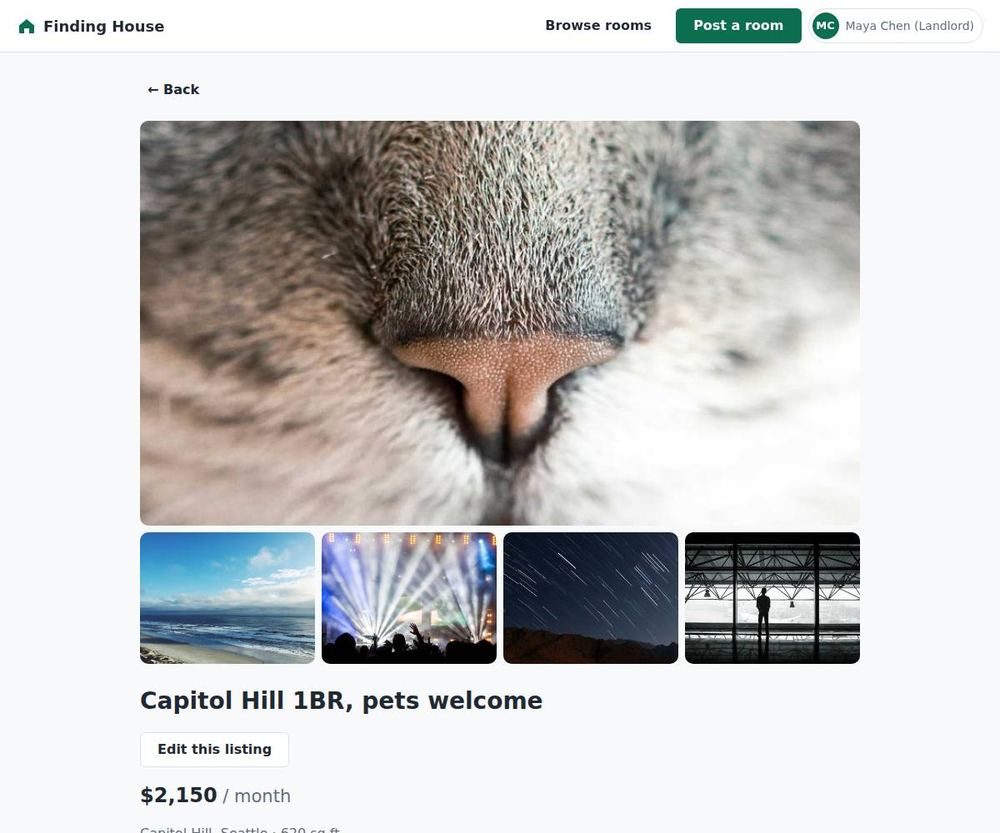
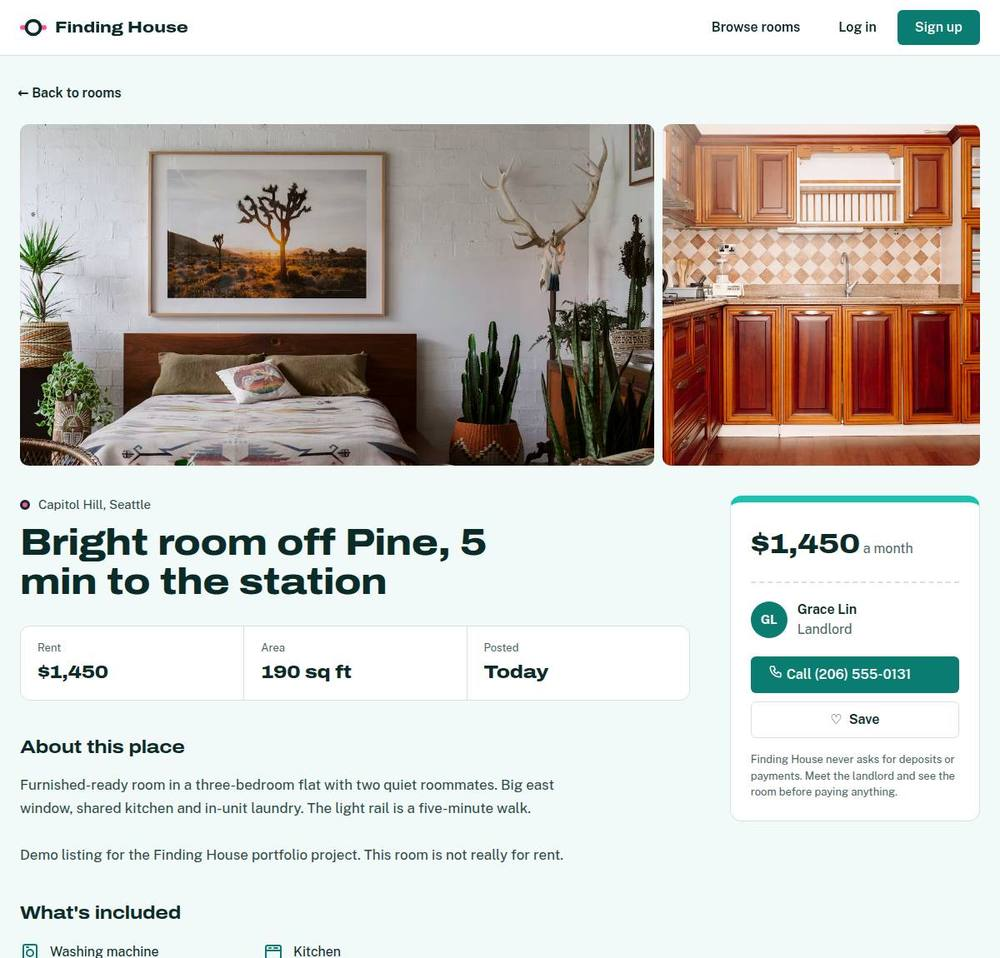
docs: README for the current product; Sprint 5 report
The README now describes the redesigned app and AI search, with fresh
screenshots from the live site and the smoke runs, updated test counts,
an AI box in the architecture diagram, and how to try AI search locally
with a key or with the fake provider. The Sprint 5 report records that AI
search is code complete and tested but off live until a key is set.

Claude-Session: https://claude.ai/code/session_017LPXMwfjLYUz5mja5F2pUE

diff --git a/README.md b/README.md
@@ -6,30 +6,40 @@ Rooms and studios for rent in Seattle: landlords post, tenants browse and filter
 
 > The API runs on a free instance that sleeps after 15 idle minutes, so the first request can take about a minute. Current progress: [docs/STATUS.md](docs/STATUS.md).
 
-| Browse with filters | Listing page |
+| Home: rooms along the 1 Line | Browse with filters |
 | --- | --- |
-| ![Browse page with filters](docs/images/browse.jpg) | ![Listing page with photos](docs/images/listing-detail.jpg) |
-| **Home: newest rooms** | **Landlord: my listings** |
-| ![Home page with the newest rooms](docs/images/home.jpg) | ![My listings with edit, hide, and delete](docs/images/my-listings.jpg) |
+| ![Home page with the 1 Line strip and newest rooms](docs/images/home.jpg) | ![Browse page with filters and ticket cards](docs/images/browse.jpg) |
+| **Listing page** | **AI search: words become filters** |
+| ![Listing page with photos, amenities and contact card](docs/images/listing-detail.jpg) | ![Browse opened by AI search with removable filter chips](docs/images/ai-search.jpg) |
+| **Landlord: my listings** | **Landlord: post a room with a live preview** |
+| ![My listings with counts and Edit, Hide, Delete](docs/images/my-listings.jpg) | ![Post a room form with a live ticket preview](docs/images/post-form.jpg) |
 
-<p align="center"><img src="docs/images/browse-phone.jpg" alt="Browse page on a phone" width="260"></p>
+<p align="center">
+  <img src="docs/images/home-phone.jpg" alt="Home page on a phone" width="240">
+  &nbsp;
+  <img src="docs/images/ai-search-phone.jpg" alt="AI search result on a phone" width="240">
+</p>
 
-_Screenshots are taken automatically by the CI smoke test with fictional sample data._
+_Screenshots are taken automatically by CI: the live site with its fictional demo rooms, and the AI search against a fake AI provider. Demo photos are from Unsplash ([credits](docs/DEMO-CONTENT.md#photo-credits))._
 
 ## What it does
 
 **Working now**
 
-- **Accounts:** sign up as a tenant or landlord, log in, stay logged in for the tab (JWT, 2-hour tokens).
-- **Landlords:** post, edit, hide/unhide, and delete rooms with up to 5 photo links; prices in dollars and cents, areas in square feet.
-- **Everyone:** browse active rooms with filters for neighborhood, rent range, minimum area, and required amenities; three sort orders; pages of 12; the filters live in the URL so a search can be shared.
-- **Listing page:** photos, details, and the landlord's name and phone; hidden listings are visible only to their owner.
-- **Tenants:** save rooms with one click and find them under Saved rooms; a room the landlord hides drops out of the list.
-- Works on phones: menu, folding filter panel, number boxes that format as you type.
+- **Accounts:** sign up as a tenant or landlord, log in, stay logged in for the tab (JWT, 2-hour tokens). What each role can do is enforced by the API, not just hidden in the UI.
+- **Landlords:** post, edit, hide/unhide, and delete rooms with up to 5 photo links, with a live preview while typing; My listings shows how many rooms are shown and hidden.
+- **Everyone:** browse with filters for neighborhood, rent range, minimum area, and amenities; a 1 Line strip with real room counts per stop; three sort orders; the filters live in the URL so a search can be shared; every filter in use is a chip you can remove.
+- **Listing page:** photo grid, amenities, the nearest 1 Line stations, and a contact card with the landlord's phone (a call bar on phones); hidden listings are visible only to their owner.
+- **Tenants:** save rooms with the heart and find them under Saved rooms.
+- **Feels finished:** a designed look ("along the line"), phone layouts checked at 375 px on every push, toasts, empty states, a progress line while the server answers, and a note when the free server is waking up.
+
+**AI search (built, switched on per deployment)**
+
+Type *"quiet room in Ballard under $1,500 with laundry"* and an LLM turns it into the same filters you could set by hand. The model's reply must follow a strict JSON schema whose neighborhoods and amenities are the only values the market knows; the server then checks every value again with the manual filters' rules, drops what does not fit with a note, and the browse page shows the result as chips you can remove. Only the sentence is sent, never logged. If the AI is off, slow, busy or confused, the page says so and the manual filters keep working. Limits keep it inside the provider's free tier. On the live site it turns on when an API key is configured; until then the box is hidden.
 
 **Planned**
 
-- **AI search** (Sprint 4): type *"studio under $1,800 in Capitol Hill, pets allowed"*; an LLM turns it into the same filters, which the server validates like manual ones, with a fallback to manual filters if the AI is slow or unsure.
+- Photo upload instead of photo links; moderation tools for a public site; an accuracy report for AI search on 30 example sentences (T-305).
 
 ## How it is built
 
@@ -37,6 +47,7 @@ _Screenshots are taken automatically by the CI smoke test with fictional sample 
 flowchart LR
   B["Browser<br/>React 19 + TypeScript<br/>(Vercel)"] -- "HTTPS, JSON, JWT<br/>CORS: this origin only" --> A["REST API<br/>Java 21, Spring Boot 4.1<br/>(Docker on Render)"]
   A -- "JPA + Flyway, TLS" --> D[("PostgreSQL 16<br/>(Neon)")]
+  A -. "search sentence only<br/>strict JSON, 5 s timeout" .-> L["LLM API<br/>(OpenAI-compatible,<br/>e.g. Groq)"]
 ```
 
 | Layer | Technology |
@@ -45,14 +56,16 @@ flowchart LR
 | Backend | Java 21, Spring Boot 4.1, Spring Security (stateless JWT), Spring Data JPA, Flyway |
 | Database | PostgreSQL 16 (Testcontainers in tests, Docker Compose locally, Neon in production) |
 | Quality | JUnit 5, Testcontainers, Playwright smoke tests, Spotless, ESLint, Prettier, GitHub Actions |
+| AI | Any OpenAI-compatible chat API (Groq proposed, D-035); JDK `HttpClient`, no SDK |
 | Hosting | Vercel, Render, Neon, all on free tiers (D-029) |
 
 **Engineering highlights**
 
-- **Tests on every push:** 119 backend tests against a real PostgreSQL, 125 frontend tests, and a smoke workflow that builds the backend's Docker image, runs it with a 512 MB limit, and drives Chrome through about 30 page checks on the production build. A separate workflow checks the live site.
+- **Tests on every push:** 140 backend tests against a real PostgreSQL, 144 frontend tests, and a smoke workflow that builds the backend's Docker image, runs it with a 512 MB limit, and drives Chrome through about 50 checks on the production build: every page at 375 px, AI search against a fake provider (including timeouts, rate limits and broken replies), and the demo content's photos. A separate workflow checks the live site.
 - **Measured performance:** with 10,000 listings, browse requests take 40.8 ms at the 95th percentile (target: under 500 ms). The query plans are printed in every build, and no index was added before measuring.
+- **AI that cannot break search:** the model only proposes filters; strict schema, our own validation, visible removable chips, per-address and global limits under the free tier, and manual search that never depends on it (NFR-04).
 - **Security:** BCrypt passwords; failed-login and sign-up limits per client address, taken only from a header the host sets, never from forgeable `X-Forwarded-For`; CORS limited to the exact frontend origin; Content Security Policy; security headers at the host; request size limit; no secrets in the repository.
-- **Process:** requirements with acceptance criteria ([SRS](docs/SRS.md)), architecture and UML ([ARCHITECTURE](docs/ARCHITECTURE.md)), 31 recorded decisions ([DECISIONS](docs/DECISIONS.md)), one branch per task with evidence in [BACKLOG](docs/BACKLOG.md), and a report per sprint ([reports](docs/reports/)).
+- **Process:** requirements with acceptance criteria ([SRS](docs/SRS.md)), architecture and UML ([ARCHITECTURE](docs/ARCHITECTURE.md)), 35 recorded decisions ([DECISIONS](docs/DECISIONS.md)), one branch per task with evidence in [BACKLOG](docs/BACKLOG.md), and a report per sprint ([reports](docs/reports/)).
 - **Built with an AI pair:** Claude wrote most of the code under the process above; every change was checked in CI and reviewed by me before reaching `main`.
 
 ## Documentation
@@ -139,9 +152,21 @@ SPRING_PROFILES_ACTIVE=dev SYNTHETIC_LISTINGS=10000 mvn spring-boot:run
 
 Synthetic listings belong to 20 landlords at `synthetic.landlord.NN@example.invalid` that cannot log in, and every description starts with "Synthetic listing for development and testing." The same `SYNTHETIC_SEED` (default 42) always gives the same data. To remove them, recreate the local database: `docker compose down -v && docker compose up -d postgres`.
 
+### AI search (optional)
+
+Without these settings AI search is off and the box is hidden. To try it locally with Groq (free plan), put a key in `.env` (never commit it):
+
+```bash
+AI_BASE_URL=https://api.groq.com/openai/v1
+AI_MODEL=openai/gpt-oss-20b
+AI_API_KEY=<your key>
+```
+
+Or run the fake provider the smoke test uses (no key, answers by keyword): `node scripts/smoke/fake-ai.mjs 9099` with `AI_BASE_URL=http://localhost:9099/v1`, any `AI_MODEL`, and any `AI_API_KEY`.
+
 ### Frontend
 
-Pages so far: home (with a carousel of the newest listings), browse with filters (`/browse`), sign up, log in, listing detail (`/listings/:id`), and for landlords: My listings (`/my/listings`), Post a room (`/listings/new`), and Edit (`/listings/:id/edit`) with delete. Every page has the header (avatar menu, mobile menu) and footer. Built from reusable components in `frontend/src/components` (D-023).
+Pages: home (hero search, AI search box, the 1 Line strip, just posted), browse with filters and chips (`/browse`), sign up, log in, listing detail (`/listings/:id`), Saved rooms for tenants (`/my/saved`), and for landlords: My listings (`/my/listings`), Post a room (`/listings/new`), and Edit (`/listings/:id/edit`) with delete. Built from reusable components in `frontend/src/components` (D-023), in the Lagoon design (D-033).
 
 Prerequisites: Node.js 22.
 
@@ -190,4 +215,7 @@ Free hosting on Neon, Render, and Vercel (D-029); step-by-step guide in [docs/DE
 | Deployment edge: CORS allows only the configured frontend origin; per-address limits follow `CF-Connecting-IP` and ignore a forged `X-Forwarded-For`; bodies over 64 KB get 413; the backend Docker image runs within 512 MB | Integration tests in a deployment-like context; smoke builds and runs `backend/Dockerfile` and serves the production frontend from another origin | Backend run 42153629641; smoke runs 42153629649, 42154410160 |
 | Sign-ups are limited to 10 attempts per address per hour (409 duplicates count); the page shows the wait time | Unit and integration tests; Vitest | Backend run 42154962043; frontend run 42154962010 |
 | The live site: API health, CORS, host security headers (nosniff, X-Frame-Options, frame-ancestors, HSTS), CSP naming the API, SPA routing, and home and browse pages on desktop and phone with no CSP or CORS errors | `live-smoke` workflow against https://finding-house.vercel.app and https://finding-house.onrender.com | Run 42168599403 |
+| Sprint 4 design on every page, checked in Chrome on desktop and at 375 px: home with real counts per 1 Line stop (new `GET /api/v1/neighborhoods`), browse with tickets and instant filters, listing page, landlord form with live preview, toasts, empty states, loading line and waking-up notice; no page scrolls sideways on a phone | Backend and Vitest tests; smoke page checks incl. `phone-shots.mjs` and a held API request | Backend run 42233683068; frontend run 42269788245; smoke run 42269787959; [Sprint 4 report](docs/reports/sprint-4-report.md) |
+| Demo content: 16 photo links answer, accounts and 8 listings load through the API without a password in the repository, a second load creates nothing, and every photo renders; loaded on the live site by a manual workflow | `load_demo_data.py` in smoke with a throwaway password; `demo-data` workflow | Smoke run 42262894914; demo-data run 42324955711; live-smoke run 42325394120 |
+| FR-05 AI search: only the sentence is sent, with a strict schema of known values; every value re-checked with the manual filters' rules; per-address and global limits; timeout, rate limit, provider errors and broken replies each give a clear message while manual search keeps working; in Chrome a sentence opens browse with removable chips | 19 backend tests against a fake provider; 5 Vitest tests; smoke `ai-search.mjs` with `fake-ai.mjs` on desktop and phone | Backend run 42330648718 (3 runs); frontend run 42329077479; smoke run 42329077496 |
 | FR-06 favorites: saving twice keeps one entry, a hidden listing drops out and returns when shown, each tenant sees only their own list, hidden or missing listings cannot be saved, landlords and visitors cannot use it; in the browser a tenant saves, finds, and unsaves a room | 8 integration tests, 7 Vitest tests, smoke checks 23a/23b | Backend run 42169385441; frontend run 42169652230; smoke run 42169798299 |

diff --git a/docs/reports/sprint-5-report.md b/docs/reports/sprint-5-report.md
@@ -1,0 +1,73 @@
+# Sprint 5 Report — "Ask for a room" (AI search)
+
+| Field | Value |
+| --- | --- |
+| Project | Finding House |
+| Sprint | 5 ([plan](../sprints/sprint-5.md)) |
+| Period | 2026-11-06 → 2026-11-07 (planned 2 weeks; code finished early) |
+| Product Owner / reviewer | Khai (lamkhai0604) |
+| Implementer | Claude |
+| Result | **Code complete, not yet switched on live.** AI search (T-301 to T-304) is in `main` through PR #12 and passes every check against a fake provider. On the live site it is off (`"available": false`) until Khai creates a provider key and sets it on Render. T-305 (accuracy report) needs that key and has not started |
+
+## 1. Summary
+
+A visitor types what they want in plain words and gets the same results as with the filters. The AI only proposes filters. The model's reply must follow a strict JSON schema whose neighborhood and amenity values are the market's own lists. The server then checks every value again with the manual filters' rules and drops anything that does not fit, with a note. The browse page shows the result as chips that can be removed. The search itself, the results and the URL are the same as for manual filters.
+
+The design goal was that AI can never break search (NFR-04). Every failure (no key, timeout, rate limit, provider error, unreadable reply, a sentence that is not a room search) gives a short message, and the manual filters keep working. Each case is tested in the backend and in Chrome.
+
+The provider is configuration: any OpenAI-compatible API. T-006 compared the free plans on 2026-11-06 and proposes Groq over Gemini (D-035). Groq does not train on prompts, has higher free limits and offers strict JSON. Khai has not decided yet: his GitHub login to the Groq console looped back to the login page, so creating the key was postponed.
+
+Before the sprint started, Khai asked whether landlord and tenant permissions had been forgotten. The check showed they were in place since Sprint 1 (role at sign-up, enforced by the API and covered by tests). The only gap was that the UI made them hard to see; possible improvements are listed in section 6.
+
+## 2. Delivered Work
+
+| Task | What was delivered | Verified | In `main` |
+| --- | --- | --- | --- |
+| T-006 (check) | Free plans of Groq, Gemini, OpenRouter and Mistral compared on limits, data use, JSON support and API shape; recommendation D-035 | Sources and dates in the sprint plan | Yes |
+| T-301 | `QueryParser` and an OpenAI-compatible adapter: strict JSON schema with the market's values, temperature 0, one attempt, 5 s timeout; key, model and URL from the environment, off when unset; the key is refused over plain HTTP except to localhost | Backend run 42326899523 (9 new tests with a fake provider) | Yes (PR #12) |
+| T-302 | `GET`/`POST /api/v1/search/interpret`: re-validation through `SearchFilter`, notes for dropped values, 20 searches per address per hour, 8 a minute and 800 a day overall, clear error codes | Backend run 42327463544 (10 new tests) | Yes |
+| T-303 | AI box on the home and browse pages (hidden when off), removable chips for every filter in use, a note after an AI search, a request not to type personal details | Frontend run 42329077479 (5 new tests); smoke with a fake provider on desktop and phone | Yes |
+| T-304 | Every failure path tested in the backend and in Chrome, with manual search still working | Backend run 42330648718 (three times), smoke run 42329077496 | Yes |
+| — | `live-smoke` now reports whether AI search is on | Live run 42332466693: `"available": false` | On `dev` |
+| — | README rewritten for the current product with fresh screenshots | Documentation | On `dev` |
+
+## 3. Verification Evidence
+
+| Suite | What it covers | Result | Run |
+| --- | --- | --- | --- |
+| Backend `mvn verify` | 140 tests on Testcontainers PostgreSQL, 19 of them for AI search against a fake provider on localhost | 140/140, stable over three runs | 42330648718 |
+| Frontend | 144 Vitest tests in 23 files; ESLint; Prettier; build | 144/144 | 42329077479 |
+| Smoke | Earlier checks, plus a fake AI provider (`fake-ai.mjs`): sentence → browse URL, chips and note on desktop and phone; not understood, timeout, busy and unreadable replies, each with manual search working | All passed | 42329077496 |
+| Live | 19 checks after PR #12, plus the AI status check | All passed; AI off | 42332371251, 42332466693 |
+
+**Not verified:** a real model. The fake provider proves the plumbing and every failure path, not how well a model reads Seattle room searches. T-305 measures that once a key exists.
+
+## 4. Decisions
+
+| ID | Decision | Status |
+| --- | --- | --- |
+| D-035 | Groq as the primary provider (`openai/gpt-oss-20b`, strict JSON), Gemini as the fallback; switching is configuration only | Proposed; waiting for Khai |
+
+## 5. Problems and How They Were Handled
+
+| Problem | Found by | Handling |
+| --- | --- | --- |
+| The backend check failed on PR #13 and on the `dev` PR: a timeout case was followed by a 504 where a 429 was expected | CI on the pull requests | The fake provider in tests handled one request at a time, so a deliberately slow reply could delay the next test's request. It now serves requests in parallel; three runs in a row pass. Production code was not affected |
+| PR #13 was opened from a task branch straight to `main` | Claude's check of the open PRs | Khai closed it and merged the `dev → main` PR (#12), which had everything plus the fix |
+| Creating a Groq key: GitHub login to the console loops back to the login page | Khai | Postponed. Suggested: a private window, Google or email login, or allowing the site's cookies |
+
+## 6. Not Done / Carried Over
+
+- **Switch AI search on:** Khai creates a key (D-035), sets `AI_BASE_URL`, `AI_MODEL` and `AI_API_KEY` on Render; then `live-smoke` should report `"available": true`.
+- **T-305:** 30 example sentences with expected filters, run against the real model by a manual workflow; accuracy per field. Needs the key and Khai's approval to run.
+- **Optional, from the permissions question:** show the role in the account menu; role choice as two cards at sign-up; send landlords to My listings after logging in. Larger and not planned: an admin role for moderation; one account with both roles.
+- **T-404** photo upload, **T-007** Maven wrapper: unchanged.
+
+## 7. Metrics
+
+| Metric | Value |
+| --- | --- |
+| Tasks done | T-301 to T-304, the T-006 check; T-305 waiting for a key |
+| Automated tests | 284 (backend 140, frontend 144), up from 260 |
+| New endpoints | 2 (`GET` and `POST /api/v1/search/interpret`) |
+| Running cost | $0; AI search will use the provider's free plan within the limits above |

diff --git a/docs/STATUS.md b/docs/STATUS.md
@@ -10,4 +10,4 @@
 | Outstanding changes | Engineering standard is held outside the repo (D-016) in `lamkhai0604/engineering-standard` (`2fae0b0`) |
 | Verification | Backend: run 42169385441 (119 tests). Frontend: run 42169652230 (125/125). Smoke: run 42169798299 (Docker backend image, cross-origin production build with CSP). |
 | Blockers | None. Environment gap: Maven Central, the npm registry, and GitHub artifact storage are unreachable from Claude's workspace, so checks run on GitHub Actions. |
-| Next action | Khai: DEMO_PASSWORD secret and demo-data run; merge dev → main; approve the Sprint 5 plan (AI search) |
+| Next action | Khai: choose the AI provider (D-035) and set its key on Render to switch AI search on; then T-305 (accuracy report) |
